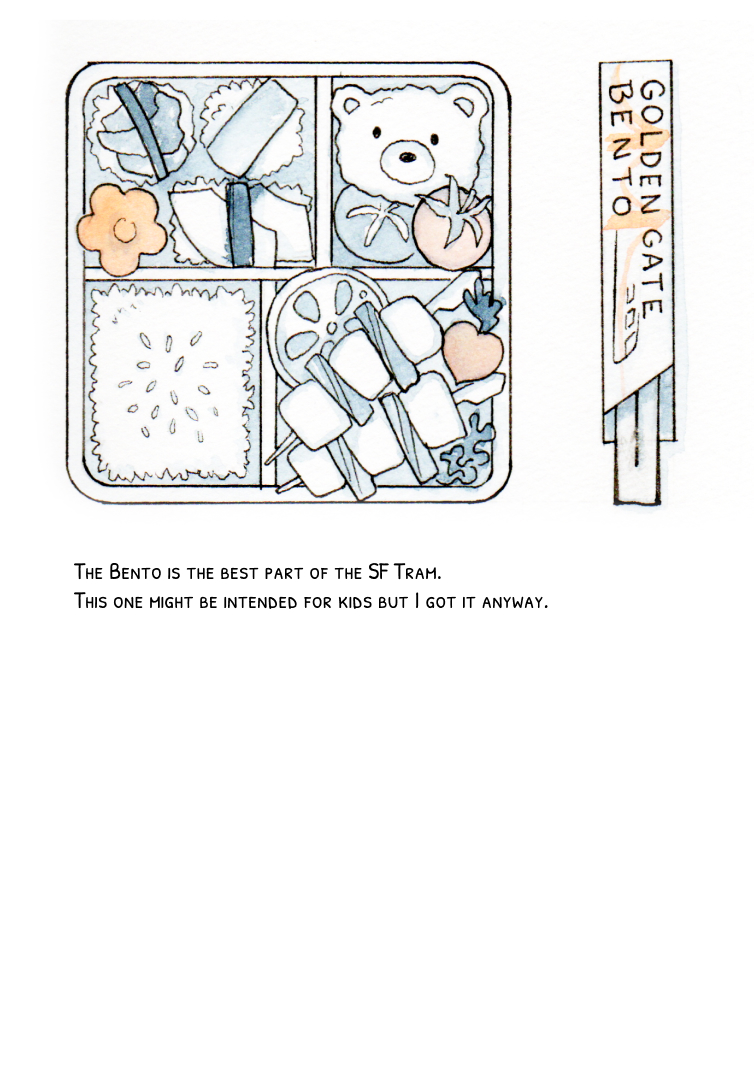
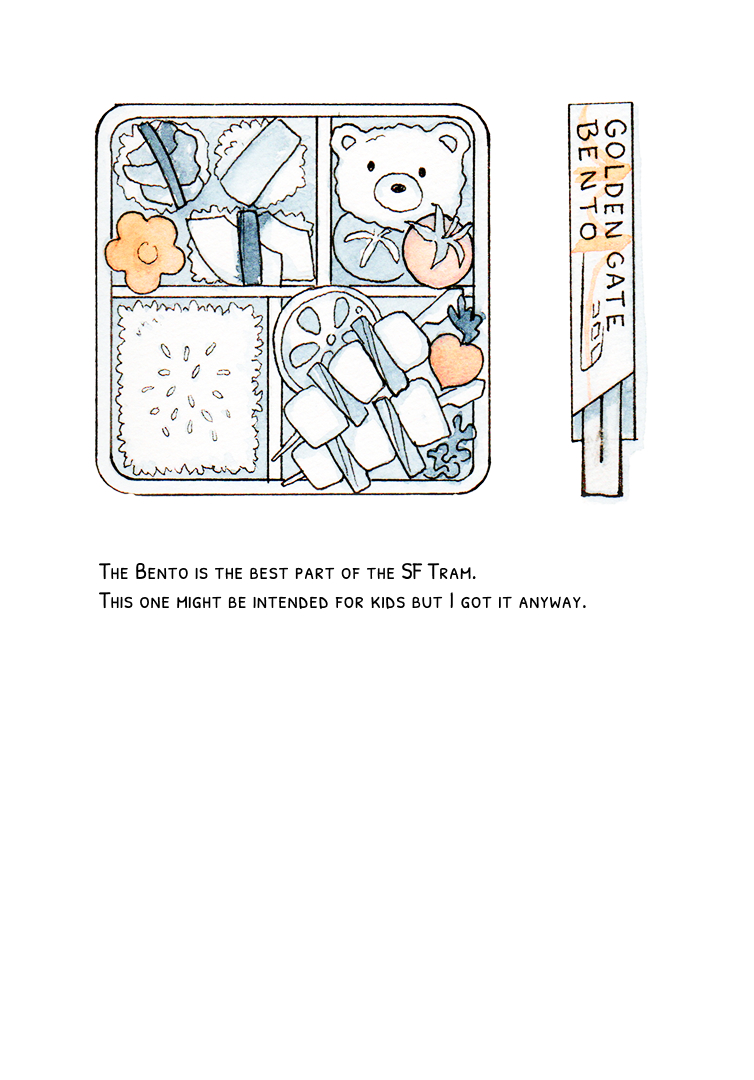
format images

Changed region(s): [[0.061, 0.0306, 0.7016, 0.4889], [0.7321, 0.0306, 0.9151, 0.4889], [0.0915, 0.5194, 0.7626, 0.5806]]

diff --git a/style.css b/style.css
@@ -176,7 +176,7 @@ html, body {
   display: flex;
   flex-direction: column;
   align-items: flex-end;
-  justify-content: center;
+  justify-content: top;
   padding-right: 24px;
   gap: 8px;
   font-family: var(--font-ui);
@@ -243,7 +243,7 @@ html, body {
   display: grid;
   gap: 12px;
   padding: 24px;
-  align-items: center;
+  align-items: start;
 }
 
 .illus-panel[data-count="1"] { grid-template-rows: 1fr; }
@@ -259,8 +259,8 @@ html, body {
   overflow: hidden;
   border-radius: 3px;
   display: flex;
-  align-items: center;
-  justify-content: center;
+  align-items: start;
+  justify-content: start;
   min-height: 0;
   mix-blend-mode: multiply;
 }
